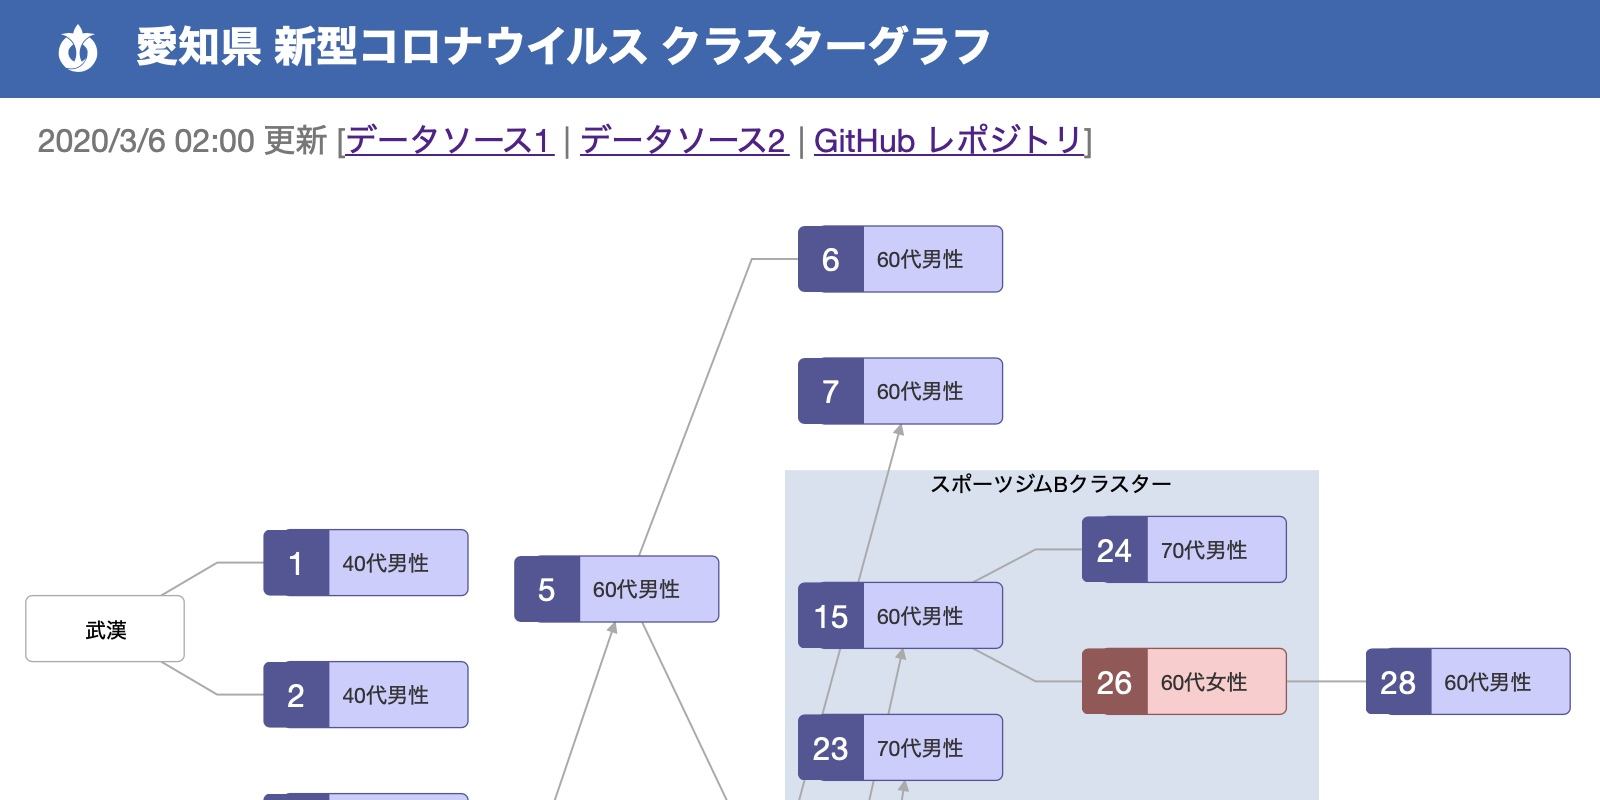
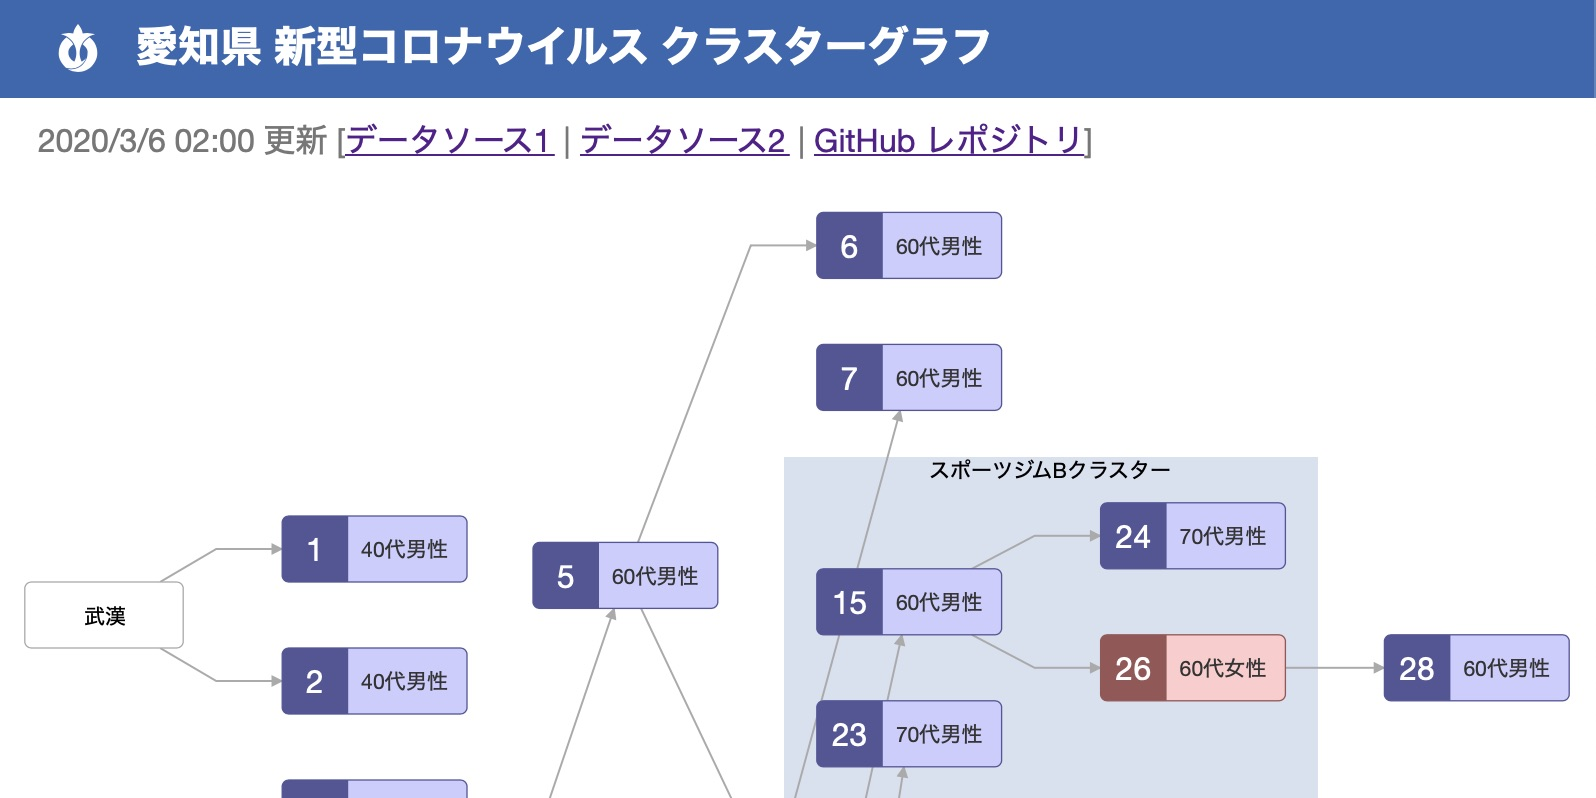
Restrict zooming and panning based on the screen size

diff --git a/js/main.js b/js/main.js
@@ -19,22 +19,25 @@
  */
 
 var DATA_URL = 'data/data.json';
+var THEME_COLOR = '#3666b0';
+var INITIAL_SCALE = 0.66;
+var GRAPH_MARGIN = 20;
 
 var initialNodes = [
-	{ id: 'wuhan', label: '武漢', width: 100, height: 30, rx: 5, ry: 5, style: 'stroke: #aaa; fill: #fff;' },
-	{ id: 'hawai', label: 'ハワイ', width: 100, height: 30, rx: 5, ry: 5, style: 'stroke: #aaa; fill: #fff;' },
-	{ id: 'unknown', label: '不明', width: 100, height: 30, rx: 5, ry: 5, style: 'stroke: #aaa; fill: #fff;' },
-	{ id: 'france', label: 'フランス', width: 100, height: 30, rx: 5, ry: 5, style: 'stroke: #aaa; fill: #fff;' }
+	{ id: 'wuhan', label: '武漢' },
+	{ id: 'hawai', label: 'ハワイ' },
+	{ id: 'unknown', label: '不明' },
+	{ id: 'france', label: 'フランス' }
 ];
 
 var clusters = [
-	{ id: 'gymA', label: 'スポーツジムAクラスター', clusterLabelPos: 'top', style: 'fill: #3666b0; opacity: 0.2;', nodes:[4, 8, 9, 10, 11, 12, 13, 14, 16, 17, 18, 19, 20, 21, 22, 51] },
-	{ id: 'gymB', label: 'スポーツジムBクラスター', clusterLabelPos: 'top', style: 'fill: #3666b0; opacity: 0.2;', nodes:[15, 23, 24, 26] }
+	{ id: 'gymA', label: 'スポーツジムAクラスター', nodes:[4, 8, 9, 10, 11, 12, 13, 14, 16, 17, 18, 19, 20, 21, 22, 51] },
+	{ id: 'gymB', label: 'スポーツジムBクラスター', nodes:[15, 23, 24, 26] }
 ];
 
 var boxColors = {
-	'男性': {stroke: '#559', fill: '#ccf'},
-	'女性': {stroke: '#955', fill: '#fcc'}
+	'男性': { stroke: '#559', fill: '#ccf' },
+	'女性': { stroke: '#955', fill: '#fcc' }
 };
 
 var loadJSON = function(url) {
@@ -67,19 +70,34 @@ var tooltip = d3.select('body').append('div')
 
 loadJSON(DATA_URL).then(function(data) {
 
+	document.getElementById('last-update').innerHTML = data.patients.date;
+
 	var graph = new dagreD3.graphlib.Graph({ compound: true });
 	graph.setGraph({ rankdir: 'LR' });
 
 	initialNodes.forEach(function(node) {
-		return graph.setNode(node.id, node);
+		var id = node.id;
+
+		return graph.setNode(id, {
+			id: id,
+			label: node.label,
+			width: 100,
+			height: 30,
+			rx: 5,
+			ry: 5,
+			style: 'stroke: #aaa; fill: #fff;'
+		});
 	});
 
 	data.patients.data.forEach(function(patient) {
 		var id = patient['No'];
+		var address = patient['居住地'];
+		var age = patient['年代'];
+		var sex = patient['性別'];
 		var remarks = patient['備考'] || '';
 		var supplement = patient['補足'] || '';
 		var dead = remarks.match(/死亡/);
-		var colors = boxColors[patient['性別']];
+		var colors = boxColors[sex];
 		var sourceIds = (supplement.match(/[0-9０-９]+/g) || ['unknown'])
 			.map(fullwidthToHalfwith)
 			.map(function(sourceId) {
@@ -98,10 +116,9 @@ loadJSON(DATA_URL).then(function(data) {
 			id: id,
 			labelType: 'html',
 			label: '<div class="container">' +
-				'<div class="id" style="background-color: ' + colors.stroke + ';">' +
-				id + '</div><div class="label">' +
-				patient['年代'] + patient['性別'] +
-				'</div></div>',
+				'<div class="id" style="background-color: ' + colors.stroke + ';">' + id + '</div>' +
+				'<div class="label">' + age + sex + '</div>' +
+				'</div>',
 			labelpos: 'l',
 			width: 120,
 			height: 30,
@@ -111,11 +128,11 @@ loadJSON(DATA_URL).then(function(data) {
 				'; stroke-width: ' + (dead ? 3 : 1) +
 				'; fill: ' + colors.fill,
 			description: 'No: ' + id +
-				'<br>居住地: ' + patient['居住地'] +
-				'<br>年代: ' + patient['年代'] +
-				'<br>性別: ' + patient['性別'] +
-				'<br>備考: ' + (patient['備考'] || '') +
-				'<br>補足: ' + (patient['補足'] || '') +
+				'<br>居住地: ' + address +
+				'<br>年代: ' + age +
+				'<br>性別: ' + sex +
+				'<br>備考: ' + remarks +
+				'<br>補足: ' + supplement +
 				'<br>発表日: ' + patient['short_date']
 		});
 
@@ -140,16 +157,24 @@ loadJSON(DATA_URL).then(function(data) {
 	});
 
 	clusters.forEach(function(cluster) {
-		graph.setNode(cluster.id, cluster);
+		var id = cluster.id;
+
+		graph.setNode(id, {
+			id: id,
+			label: cluster.label,
+			clusterLabelPos: 'top',
+			style: 'fill: ' + THEME_COLOR + '; opacity: 0.2;',
+			nodes: cluster.nodes
+		});
 	});
 
 	var svg = d3.select('#network');
 	var inner = svg.select('g');
 
-	var zoom = d3.behavior.zoom().on('zoom', function () {
-		inner.attr('transform', 'translate(' + d3.event.translate + ')' +
-			'scale(' + d3.event.scale + ')');
-	});
+	var zoom = d3.zoom()
+		.on('zoom', function () {
+			inner.attr('transform', d3.event.transform);
+		});
 	svg.call(zoom);
 
 	var render = new dagreD3.render();
@@ -174,12 +199,60 @@ loadJSON(DATA_URL).then(function(data) {
 				.style('opacity', 0);
 		})
 
-	var initialScale = 0.66;
-	zoom
-		.translate([(svg.attr('width') - graph.graph().width * initialScale) / 2, 20])
-		.scale(initialScale)
-		.event(svg);
-	svg.attr('height', graph.graph().height * initialScale + 40);
+	var width = graph.graph().width;
+	var height = graph.graph().height;
+	var svgElement = svg.node();
 
-	document.getElementById('last-update').innerHTML = data.patients.date;
+	var resetHeight = function() {
+		svgElement.style.height =
+			document.body.clientHeight - svgElement.getBoundingClientRect().top;
+	}
+
+	var redraw = function(event) {
+		var initialTransform = event.transform || {};
+		var transform = d3.zoomTransform(svgElement);
+		var k = initialTransform.k || transform.k;
+		var x = initialTransform.x || transform.x / k;
+		var y = initialTransform.y || transform.y / k;
+
+		resetHeight();
+
+		var clientWidth = svgElement.clientWidth;
+		var clientHeight = svgElement.clientHeight;
+		var xScale = clientWidth / (width + GRAPH_MARGIN * 2);
+		var yScale = clientHeight / (height + GRAPH_MARGIN * 2);
+		var dx = clientWidth / k - width;
+		var dy = clientHeight / k - height;
+		var extent = [
+			Math.min(xScale, yScale, INITIAL_SCALE),
+			Math.max(xScale, yScale, 1)
+		];
+		var scale = Math.min(Math.max(k, extent[0]), extent[1]);
+		var xOffset = xScale > k ? dx / 2 : Math.max(x, dx - GRAPH_MARGIN);
+		var yOffset = yScale > k ? dy / 2 : Math.max(y, dy - GRAPH_MARGIN);
+
+		zoom.scaleExtent(extent)
+			.transform(svg, d3.zoomIdentity
+				.scale(scale)
+				.translate(xOffset, yOffset)
+			);
+	};
+
+	var extent = [
+		[-GRAPH_MARGIN , -GRAPH_MARGIN],
+		[width + GRAPH_MARGIN, height + GRAPH_MARGIN]
+	];
+	zoom.translateExtent(extent);
+
+	resetHeight();
+	redraw({
+		transform: {
+			k: INITIAL_SCALE,
+			x: Math.max((svgElement.clientWidth / INITIAL_SCALE - width) / 2, GRAPH_MARGIN),
+			y: Math.max((svgElement.clientHeight / INITIAL_SCALE - height) / 2, GRAPH_MARGIN)
+		}
+	});
+
+	window.addEventListener('resize', redraw);
+
 });

diff --git a/index.html b/index.html
@@ -22,7 +22,7 @@
 	<meta property="og:image" content="https://nagix.github.io/covid19-aichi-graph/images/screenshot1.jpg" />
 	<meta name="twitter:card" content="summary_large_image" />
 	<meta name="twitter:site" content="@nagix" />
-	<script type="text/javascript" src="https://d3js.org/d3.v3.min.js"></script>
+	<script type="text/javascript" src="https://d3js.org/d3.v5.min.js"></script>
 	<script type="text/javascript" src="https://dagrejs.github.io/project/dagre-d3/latest/dagre-d3.min.js"></script>
 </head>
 <body>
@@ -34,6 +34,6 @@
 		<span id="last-update"></span> 更新
 		[<a href="http://www.city.nagoya.jp/kenkofukushi/page/0000124556.html">データソース1</a> | <a href="https://www.pref.aichi.jp/soshiki/kenkotaisaku/novel-coronavirus.html">データソース2</a> | <a href="https://github.com/nagix/covid19-aichi-graph">GitHub レポジトリ</a>]
 	</p>
-	<svg id="network" width=800 style="width: 100%"><g></g></svg>
+	<svg id="network"><g></g></svg>
 	<script type="text/javascript" src="js/main.js"></script>
 </body>

diff --git a/style.css b/style.css
@@ -1,18 +1,12 @@
-body {
+html, body {
+	width: 100%;
+	height: 100%;
 	margin: 0;
 	padding: 0;
 	font: 16px 'Helvetica Neue', Arial, Helvetica, sans-serif;
 	color: #333;
+	overflow: hidden;
 	touch-action: none;
-}
-
-svg {
-	cursor: grab;
-	font-size: 16px;
-}
-
-svg:active {
-	cursor: grabbing;
 }
 
 div.bar {
@@ -21,6 +15,7 @@ div.bar {
 	padding: 5px 20px;
 	background-color: #3666b0;
 	box-sizing: border-box;
+	white-space: nowrap;
 }
 
 div.logo {
@@ -42,8 +37,23 @@ div.title {
 	vertical-align: middle;
 }
 
+p.description {
+	margin: 10px 20px;
+	color: #777;
+}
+
+svg#network {
+	width: 100%;
+	cursor: grab;
+	font-size: 16px;
+}
+
+svg#network:active {
+	cursor: grabbing;
+}
+
 div.container {
-	width: 170px;
+	width: 140px;
 	height: 50px;
 	user-select: none;
 }
@@ -67,12 +77,9 @@ div.label {
     line-height: 50px;
 }
 
-p.description {
-	margin: 10px 20px;
-	color: #777;
-}
-
 div.tooltip {
+	top: 0;
+	left: 0;
 	position: absolute;
 	text-align: left;
 	padding: 10px;
